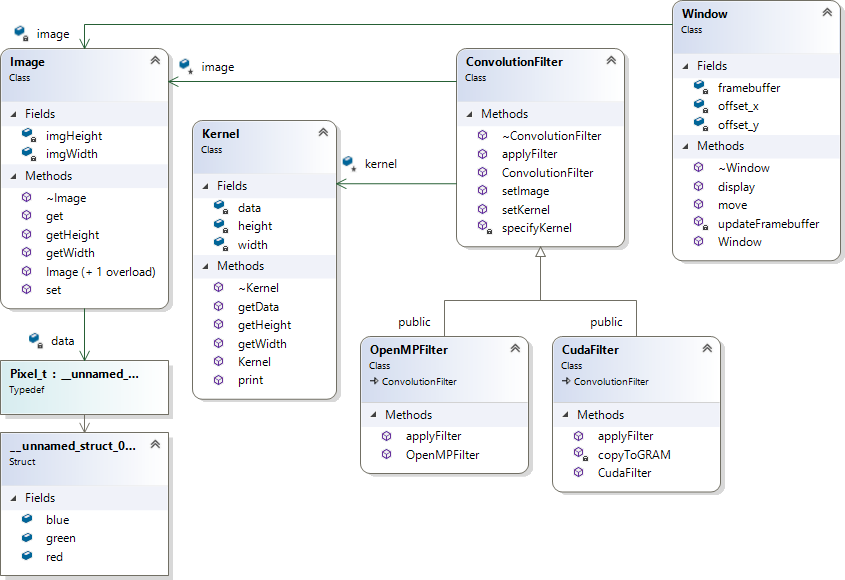
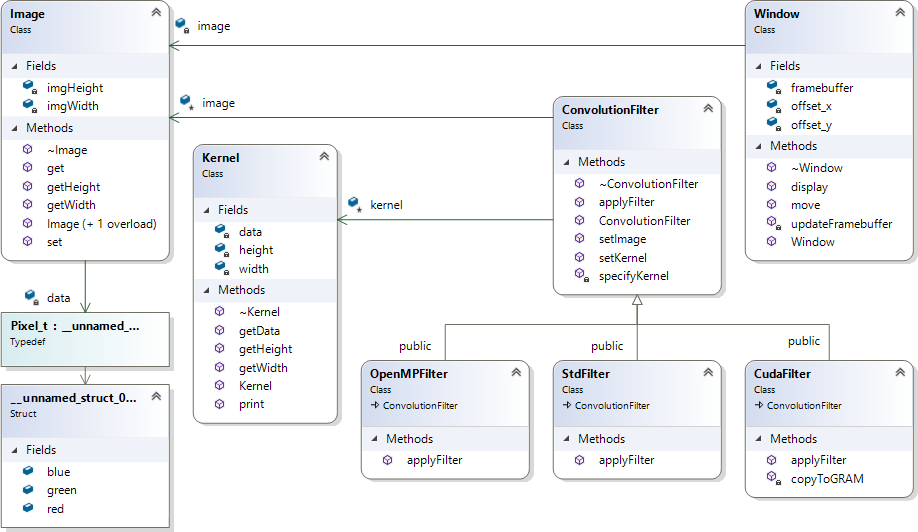
Added parallelization with C++11's std::thread

Changed region(s): [[0.0, 0.0, 1.0, 1.0]]

diff --git a/Convolution Filter/Convolution Filter/StdFilter.cpp b/Convolution Filter/Convolution Filter/StdFilter.cpp
@@ -1,0 +1,75 @@
+#include "StdFilter.h"
+#include "Image.h"
+#include "Kernel.h"
+
+#include <thread>
+#include <vector>
+
+#define NUM_THREADS 8
+
+Image * StdFilter::applyFilter()
+{
+	if (kernel == nullptr)
+		return nullptr;
+	if (image == nullptr)
+		return nullptr;
+
+	Pixel_t *resultImage = new Pixel_t[image->getWidth()*image->getHeight()];
+
+	std::vector<std::thread> threads;
+
+	for (int i = 0; i < NUM_THREADS; i++) {
+		threads.push_back(std::thread(
+			[&](int id) -> void
+		{
+			for (unsigned int j = id; j < image->getHeight(); j += NUM_THREADS)
+			{
+				for (unsigned int b = 0; b < image->getWidth(); b++)
+				{
+					unsigned int x1, y1;
+					float red = 0;
+					float green = 0;
+					float blue = 0;
+
+					for (unsigned int y = 0; y < kernel->getHeight(); y++)
+					{
+						for (unsigned int x = 0; x < kernel->getWidth(); x++)
+						{
+							x1 = b - kernel->getWidth() / 2 + x;
+							y1 = j - kernel->getHeight() / 2 + y;
+
+							if ((x1 < 0) || (x1 >= image->getWidth()))
+							{
+								x1 = (image->getWidth() - x1) % image->getWidth();
+							}
+
+							if ((y1 < 0) || (y1 >= image->getHeight()))
+							{
+								y1 = (image->getHeight() - y1) % image->getHeight();
+							}
+
+							Pixel_t pixel = image->get(y1, x1);
+							red += pixel.red * kernel->getData()[x][y];
+							green += pixel.green * kernel->getData()[x][y];
+							blue += pixel.blue * kernel->getData()[x][y];
+						} // x
+					} // y
+
+					red = red < 0 ? 0 : red > 255 ? 255 : red;
+					green = green < 0 ? 0 : green > 255 ? 255 : green;
+					blue = blue < 0 ? 0 : blue > 255 ? 255 : blue;
+
+					resultImage[j * image->getWidth() + b].red = (unsigned char)red;
+					resultImage[j * image->getWidth() + b].green = (unsigned char)green;
+					resultImage[j * image->getWidth() + b].blue = (unsigned char)blue;
+				} // b
+			} // j
+		}
+		, i));
+	}
+
+	for (int i = 0; i < NUM_THREADS; i++)
+		threads[i].join();
+
+	return new Image(image->getWidth(), image->getHeight(), resultImage);
+}

diff --git a/Convolution Filter/Convolution Filter/Main.cpp b/Convolution Filter/Convolution Filter/Main.cpp
@@ -3,7 +3,7 @@
   *
   * @author Jozef Blazicek
   * */
-#define OPEN_MP
+#define STD
 
 #include <stdlib.h>
 #include <chrono>
@@ -11,9 +11,14 @@
 #include "Window.h"
 
 #if defined( CUDA )
+// USe cuda
 #include "CudaFilter.cuh"
 #elif defined ( OPEN_MP )
+// Use OprnMP
 #include "OpenMPFilter.h"
+#elif defined ( STD )
+// Use std::thread
+#include "StdFilter.h"
 #endif
 
 ConvolutionFilter * getFilter();
@@ -55,5 +60,7 @@ ConvolutionFilter * getFilter()
 	return new CudaFilter();
 #elif defined ( OPEN_MP )
 	return new OpenMPFilter();
+#elif defined ( STD )
+	return new StdFilter();
 #endif
 }

diff --git a/Convolution Filter/Convolution Filter/StdFilter.h b/Convolution Filter/Convolution Filter/StdFilter.h
@@ -2,7 +2,7 @@
 
 #include "ConvolutionFilter.h"
 
-class OpenMPFilter :
+class StdFilter :
 	public ConvolutionFilter
 {
 public:

diff --git a/Convolution Filter/Convolution Filter/Kernel.h b/Convolution Filter/Convolution Filter/Kernel.h
@@ -1,4 +1,5 @@
 #pragma once
+
 class Kernel
 {
 private:

diff --git a/Convolution Filter/Convolution Filter/ConvolutionFilter.h b/Convolution Filter/Convolution Filter/ConvolutionFilter.h
@@ -23,4 +23,3 @@ public:
 
 	~ConvolutionFilter();
 };
-

diff --git a/README.md b/README.md
@@ -1,14 +1,14 @@
 # Convolution Filter
 
 - For displaying result image was used OpenGL library
-- Parallelised with OpenMP or [Nvidia Cuda](http://www.nvidia.com/object/cuda_home_new.html)
+- Parallelised with OpenMP, [Nvidia Cuda](http://www.nvidia.com/object/cuda_home_new.html) or C++ 11's std::thread
 
 ![Demo](demo.gif)
 
 # Implementation
 ![Classes](Classes.png)
 
-- Convolution filter is implemented as Strategy pattern (ConvolutionFilter), where each of concrete strategies implements different parallelization technology (OpenMPFilter, CudaFilter).
+- Convolution filter is implemented as Strategy pattern (ConvolutionFilter), where each of concrete strategies implements different parallelization technology (OpenMPFilter, CudaFilter, StdFilter).
 - Pixel_t represents one pixel of image
 - Kernel represents convolution filter kernel
 - Window encapsulates logic for displaying and navigating in result
